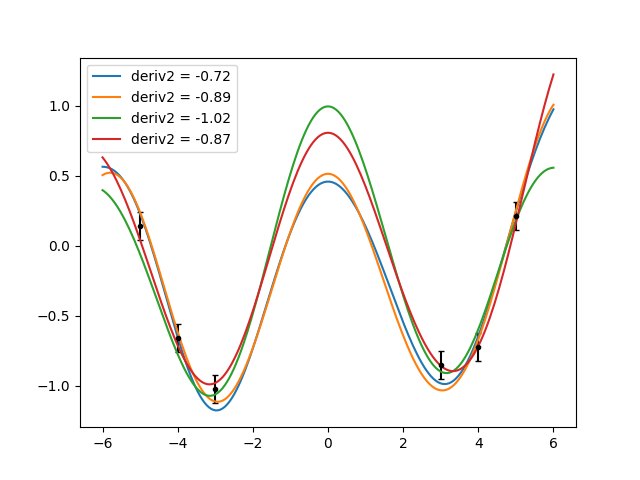
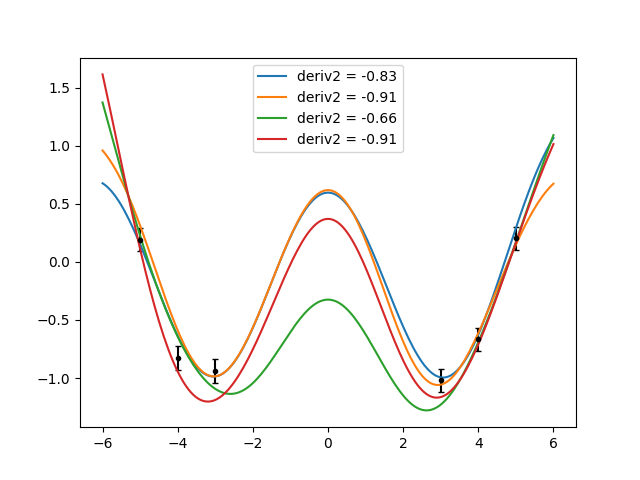
reordered code

diff --git a/docs/derivatives.rst b/docs/derivatives.rst
@@ -95,19 +95,19 @@ terms of derivatives, a maximum is given by a zero first derivative and a
 negative second derivative. It won't be complicated. I will stop using *foo*
 and *bar* and give meaningful names to the points::
 
-    gp = lgp.GP(lgp.ExpQuad(scale=2))
     x = np.array([-5, -4, -3, 3, 4, 5])
-    gp.addx(x, 'data')
-    gp.addx(0, 'maximum-slope', deriv=1)
-    gp.addx(0, 'maximum-curvature', deriv=2)
-    
-    xplot = np.linspace(-6, 6, 200)
-    gp.addx(xplot, 'plot')
-    
     yerr = 0.1
     y = np.cos(x) # we got bored of sines already
     y += yerr * np.random.randn(len(x))
     y = gvar.gvar(y, yerr * np.ones(len(x)))
+    
+    gp = lgp.GP(lgp.ExpQuad(scale=2))
+    gp.addx(x, 'data')
+    gp.addx(0, 'maximum-slope', deriv=1) # the cosine maximum is in 0
+    gp.addx(0, 'maximum-curvature', deriv=2)
+    
+    xplot = np.linspace(-6, 6, 200)
+    gp.addx(xplot, 'plot')
     
     given = {
         'data': y,  
